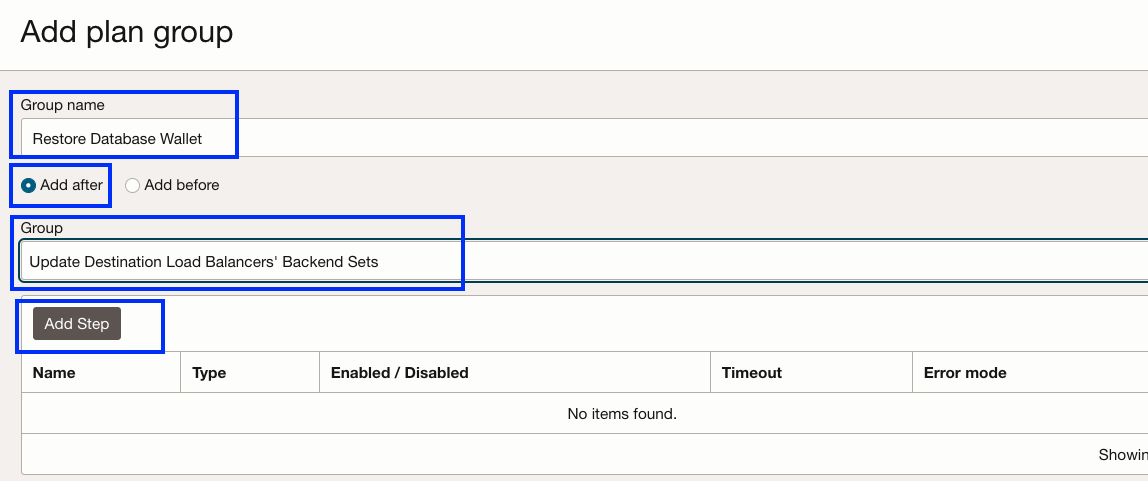
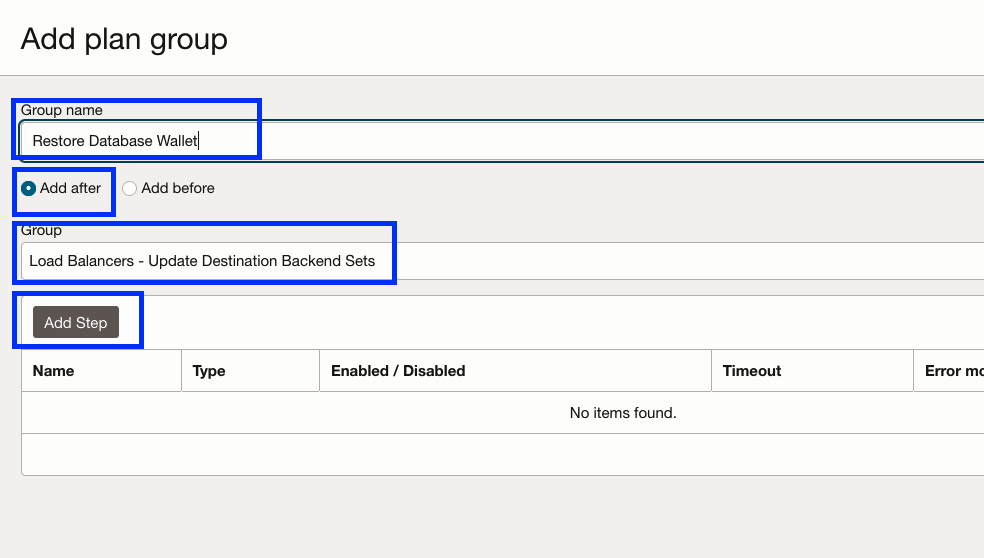
Changes-14th Aug-1
Changes-14th Aug-1

diff --git a/oci-fullstackdrs/drpg-plan-setup/drpg-plan-customize-ocw24.md b/oci-fullstackdrs/drpg-plan-setup/drpg-plan-customize-ocw24.md
@@ -123,7 +123,7 @@ Watch the video below for a quick walk-through of the lab.
 
     ![dr plans summary](./images/phoenix-drplans-summary.png)
 
-13. For the rest of the tutorial, we are going to use **mushop-app-failover-iad-phx** plan. Based on the required you can add respective user-defined plan groups for other DR plans.
+13. For the rest of the tutorial, we are going to use **mushop-app-failover-iad-phx** plan. Based on the requirements, you can add respective user-defined plan groups for other DR plans.
 
 ## Task 2: Customize the Failover plan-Restore Database Wallet group
 
@@ -135,7 +135,7 @@ Watch the video below for a quick walk-through of the lab.
 
     ![add plan group](./images/phoenix-plangroup-add-new.png)
 
-2.  Add **Restore Database Wallet** in the Group name, select **Add after** radio button, select **Update Destination Load Balancers' Backend Sets** in the Group and Click **Add Step**
+2.  Add **Restore Database Wallet** in the Group name, select **Add after** radio button, select **Load Balancers - Update Destination Backend Sets** in the Group and Click **Add Step**
 
     ![add dbrestore plangroup](./images/phoenix-dbrestore-plangroup-new.png)
 
